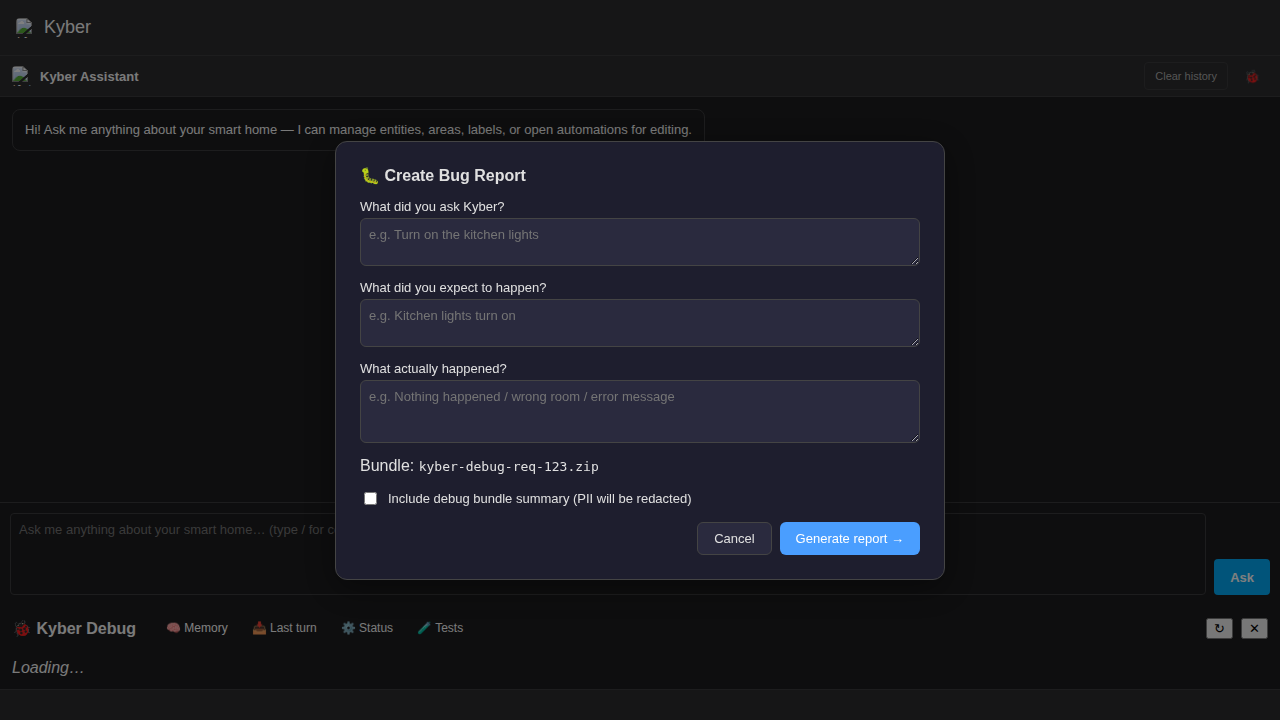
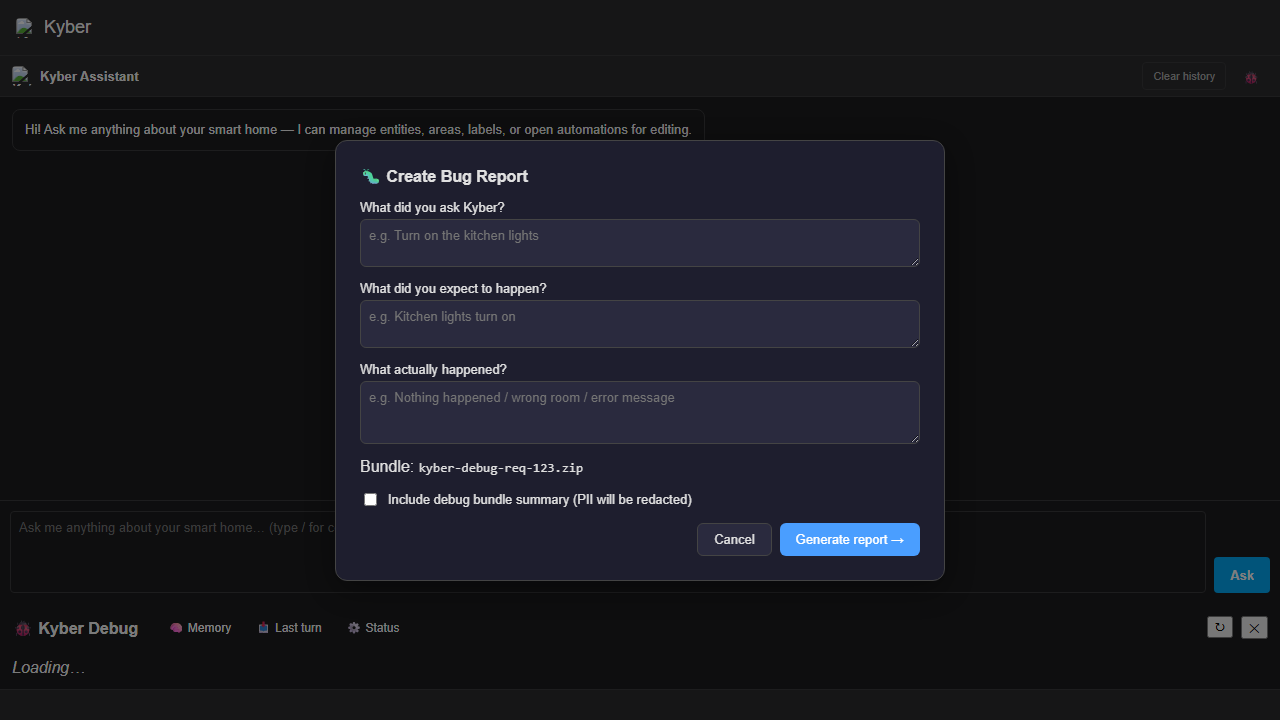
fix: make bug report zip filename directly downloadable
Agent-Logs-Url: https://github.com/pgroene/kyber/sessions/05222fa3-8549-4a48-9cce-4b3dd579145a

diff --git a/www/kyber/tests/ui/bug-report.spec.js b/www/kyber/tests/ui/bug-report.spec.js
@@ -15,4 +15,47 @@ test.describe("Debug bug report dialog", () => {
 
     await page.screenshot({ path: "screenshots/debug-bug-report-dialog.png" });
   });
+
+  test("review dialog makes the bundle filename downloadable", async ({ page }) => {
+    await gotoHarness(page);
+
+    await page.route("**/api/kyber/debug/bug-report", (route) =>
+      route.fulfill({
+        status: 200,
+        contentType: "application/json",
+        body: JSON.stringify({
+          title: "energie prijzen failure on integrations",
+          body: "## Summary\nFailed to search for correct attributes in Kyber",
+          similar_issues: [],
+          bundle_available: true,
+        }),
+      })
+    );
+
+    await page.route("**/api/kyber/debug/bundle?request_id=req-download", (route) =>
+      route.fulfill({
+        status: 200,
+        headers: {
+          "content-type": "application/zip",
+          "content-disposition": "attachment; filename=kyber-debug-req-download.zip",
+        },
+        body: "fake-zip",
+      })
+    );
+
+    await page.evaluate(async () => {
+      await window.__panel._openBugReportFlow("req-download");
+      const shadow = window.__panel.shadowRoot;
+      shadow.querySelector("#br-happened").value = "The answer was wrong.";
+      shadow.querySelector("#br-submit").click();
+    });
+
+    await expect(page.locator("#br-bundle-download-link")).toBeVisible();
+    const bundleRequest = page.waitForRequest("**/api/kyber/debug/bundle?request_id=req-download");
+    await page.locator("#br-bundle-download-link").click();
+    await bundleRequest;
+
+    await expect(page.locator("#br-bundle-download-link")).toContainText("kyber-debug-req-download.zip");
+    await page.screenshot({ path: "screenshots/debug-bug-report-download-link.png" });
+  });
 });

diff --git a/custom_components/kyber/www/src/ai-mixin.js b/custom_components/kyber/www/src/ai-mixin.js
@@ -103,7 +103,7 @@ export const AIMixin = (Base) => class extends Base {
               : "";
             const noBundleNote = data.bundle_available === false
               ? `<div class="bug-report-bundle-name" style="color:var(--warning-color,#f90)">⚠ Debug snapshot not available — bundle data was not included. Attach the zip file manually after opening the issue.</div>`
-              : `<div class="bug-report-bundle-name" style="color:var(--success-color,#4caf50)">📎 After opening the issue on GitHub, attach the <code>${this._escapeHtml(`kyber-debug-${requestId}.zip`)}</code> file.</div>`;
+              : `<div class="bug-report-bundle-name" style="color:var(--success-color,#4caf50)">📎 After opening the issue on GitHub, attach the <a href="#" id="br-bundle-download-link"><code>${this._escapeHtml(`kyber-debug-${requestId}.zip`)}</code></a> file.</div>`;
 
             const encodedTitle = encodeURIComponent(data.title || "");
             const encodedBody = encodeURIComponent(data.body || "");
@@ -127,6 +127,10 @@ export const AIMixin = (Base) => class extends Base {
               </div>`;
 
             dlg.querySelector("#br-close").addEventListener("click", close);
+            dlg.querySelector("#br-bundle-download-link")?.addEventListener("click", (ev) => {
+              ev.preventDefault();
+              this._downloadDebugBundle(requestId);
+            });
             dlg.querySelector("#br-download")?.addEventListener("click", () => {
               this._downloadDebugBundle(requestId, dlg.querySelector("#br-download"));
             });

diff --git a/www/kyber/src/ai-mixin.js b/www/kyber/src/ai-mixin.js
@@ -103,7 +103,7 @@ export const AIMixin = (Base) => class extends Base {
               : "";
             const noBundleNote = data.bundle_available === false
               ? `<div class="bug-report-bundle-name" style="color:var(--warning-color,#f90)">⚠ Debug snapshot not available — bundle data was not included. Attach the zip file manually after opening the issue.</div>`
-              : `<div class="bug-report-bundle-name" style="color:var(--success-color,#4caf50)">📎 After opening the issue on GitHub, attach the <code>${this._escapeHtml(`kyber-debug-${requestId}.zip`)}</code> file.</div>`;
+              : `<div class="bug-report-bundle-name" style="color:var(--success-color,#4caf50)">📎 After opening the issue on GitHub, attach the <a href="#" id="br-bundle-download-link"><code>${this._escapeHtml(`kyber-debug-${requestId}.zip`)}</code></a> file.</div>`;
 
             const encodedTitle = encodeURIComponent(data.title || "");
             const encodedBody = encodeURIComponent(data.body || "");
@@ -127,6 +127,10 @@ export const AIMixin = (Base) => class extends Base {
               </div>`;
 
             dlg.querySelector("#br-close").addEventListener("click", close);
+            dlg.querySelector("#br-bundle-download-link")?.addEventListener("click", (ev) => {
+              ev.preventDefault();
+              this._downloadDebugBundle(requestId);
+            });
             dlg.querySelector("#br-download")?.addEventListener("click", () => {
               this._downloadDebugBundle(requestId, dlg.querySelector("#br-download"));
             });

diff --git a/custom_components/kyber/www/kyber-panel.js b/custom_components/kyber/www/kyber-panel.js
@@ -40,7 +40,7 @@ import { KnowledgeMixin } from "./src/knowledge-mixin.js?v=87";
 import { DebugMixin } from "./src/debug-mixin.js?v=87";
 import { SlashMixin } from "./src/slash-commands-mixin.js?v=87";
 import { EditorMixin } from "./src/editor-mixin.js?v=87";
-import { AIMixin } from "./src/ai-mixin.js?v=88";
+import { AIMixin } from "./src/ai-mixin.js?v=89";
 import { PlanCardsMixin } from "./src/plan-cards-mixin.js?v=87";
 
 // ---------------------------------------------------------------------------

diff --git a/www/kyber/kyber-panel.js b/www/kyber/kyber-panel.js
@@ -40,7 +40,7 @@ import { KnowledgeMixin } from "./src/knowledge-mixin.js?v=87";
 import { DebugMixin } from "./src/debug-mixin.js?v=87";
 import { SlashMixin } from "./src/slash-commands-mixin.js?v=87";
 import { EditorMixin } from "./src/editor-mixin.js?v=87";
-import { AIMixin } from "./src/ai-mixin.js?v=88";
+import { AIMixin } from "./src/ai-mixin.js?v=89";
 import { PlanCardsMixin } from "./src/plan-cards-mixin.js?v=87";
 
 // ---------------------------------------------------------------------------

diff --git a/custom_components/kyber/__init__.py b/custom_components/kyber/__init__.py
@@ -339,7 +339,7 @@ async def async_setup_entry(hass: HomeAssistant, entry: KyberConfigEntry) -> boo
             webcomponent_name="kyber-panel",
             sidebar_title="Kyber",
             sidebar_icon="mdi:robot",
-            module_url="/local/kyber/kyber-panel.js?v=93",
+            module_url="/local/kyber/kyber-panel.js?v=94",
         )
     except Exception:  # noqa: BLE001
         _LOGGER.debug("Panel registration skipped (test environment)")
@@ -354,7 +354,7 @@ async def async_setup_entry(hass: HomeAssistant, entry: KyberConfigEntry) -> boo
                 webcomponent_name="kyber-panel",
                 sidebar_title="Kyber Debug",
                 sidebar_icon="mdi:bug",
-                module_url="/local/kyber/kyber-panel.js?v=93",
+                module_url="/local/kyber/kyber-panel.js?v=94",
                 config={"mode": "debug"},
             )
         except Exception:  # noqa: BLE001
@@ -391,4 +391,3 @@ async def async_unload_entry(hass: HomeAssistant, entry: KyberConfigEntry) -> bo
     except Exception:  # noqa: BLE001
         pass
     return True
-
